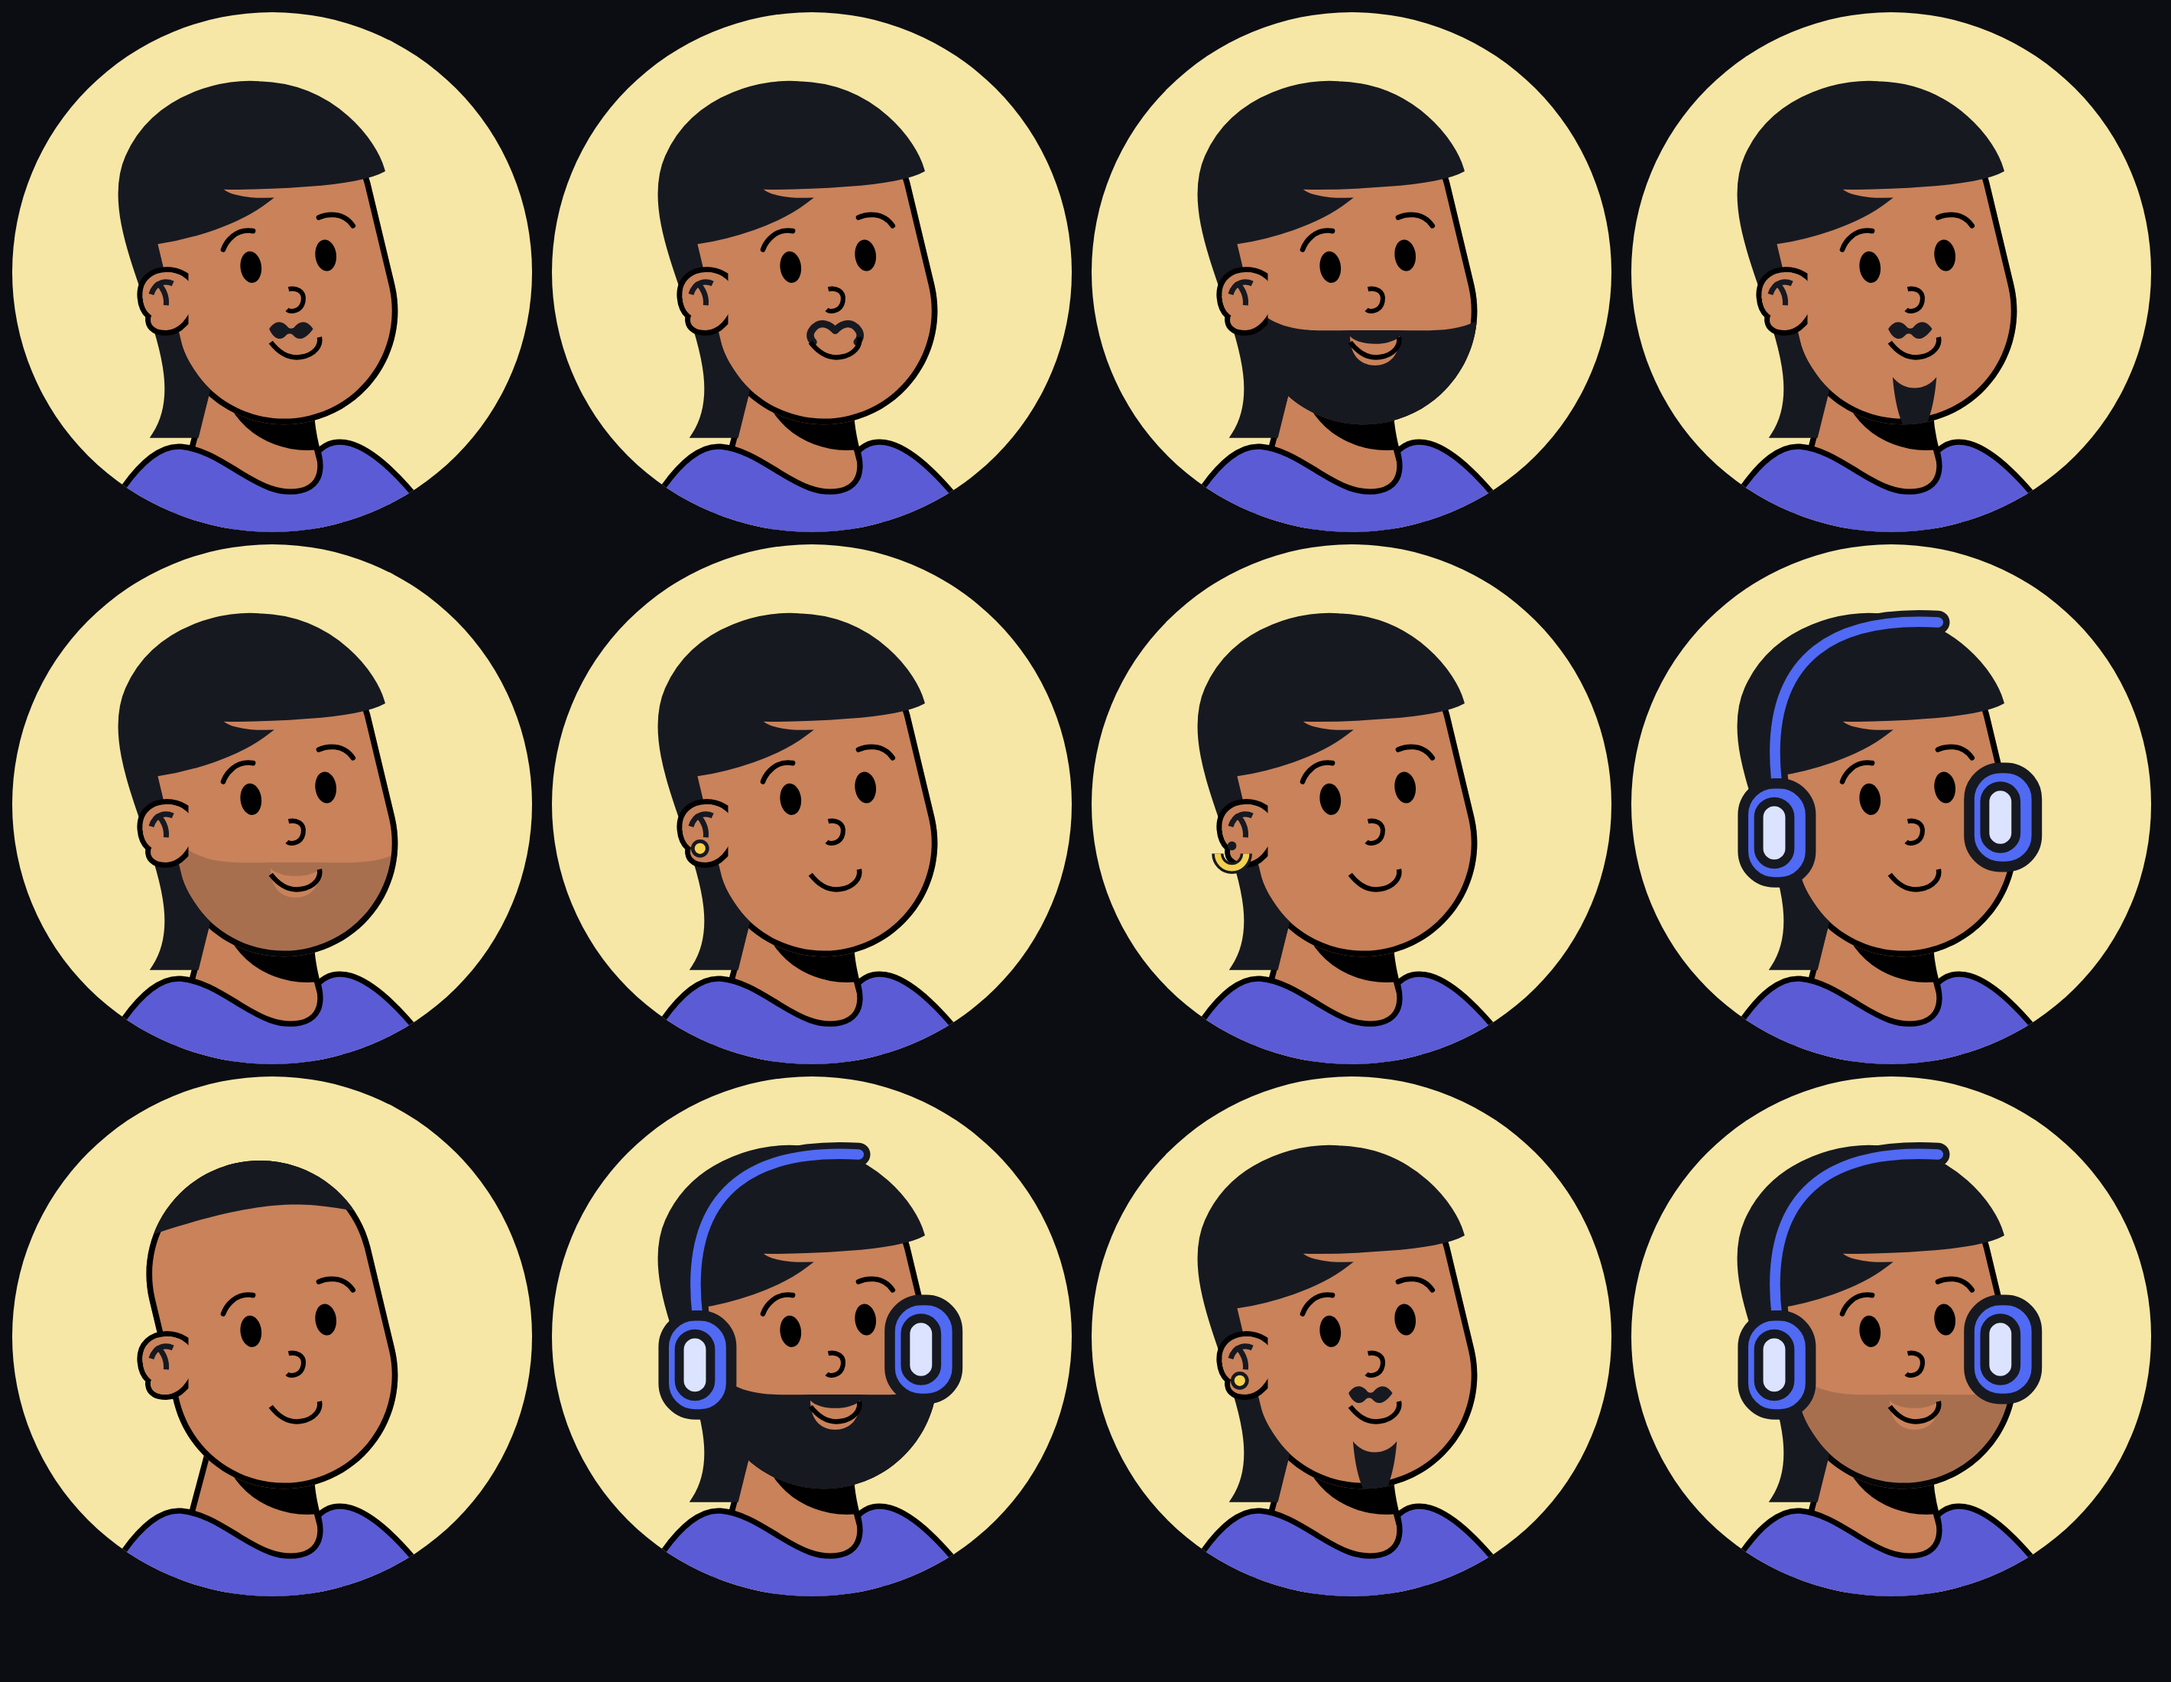
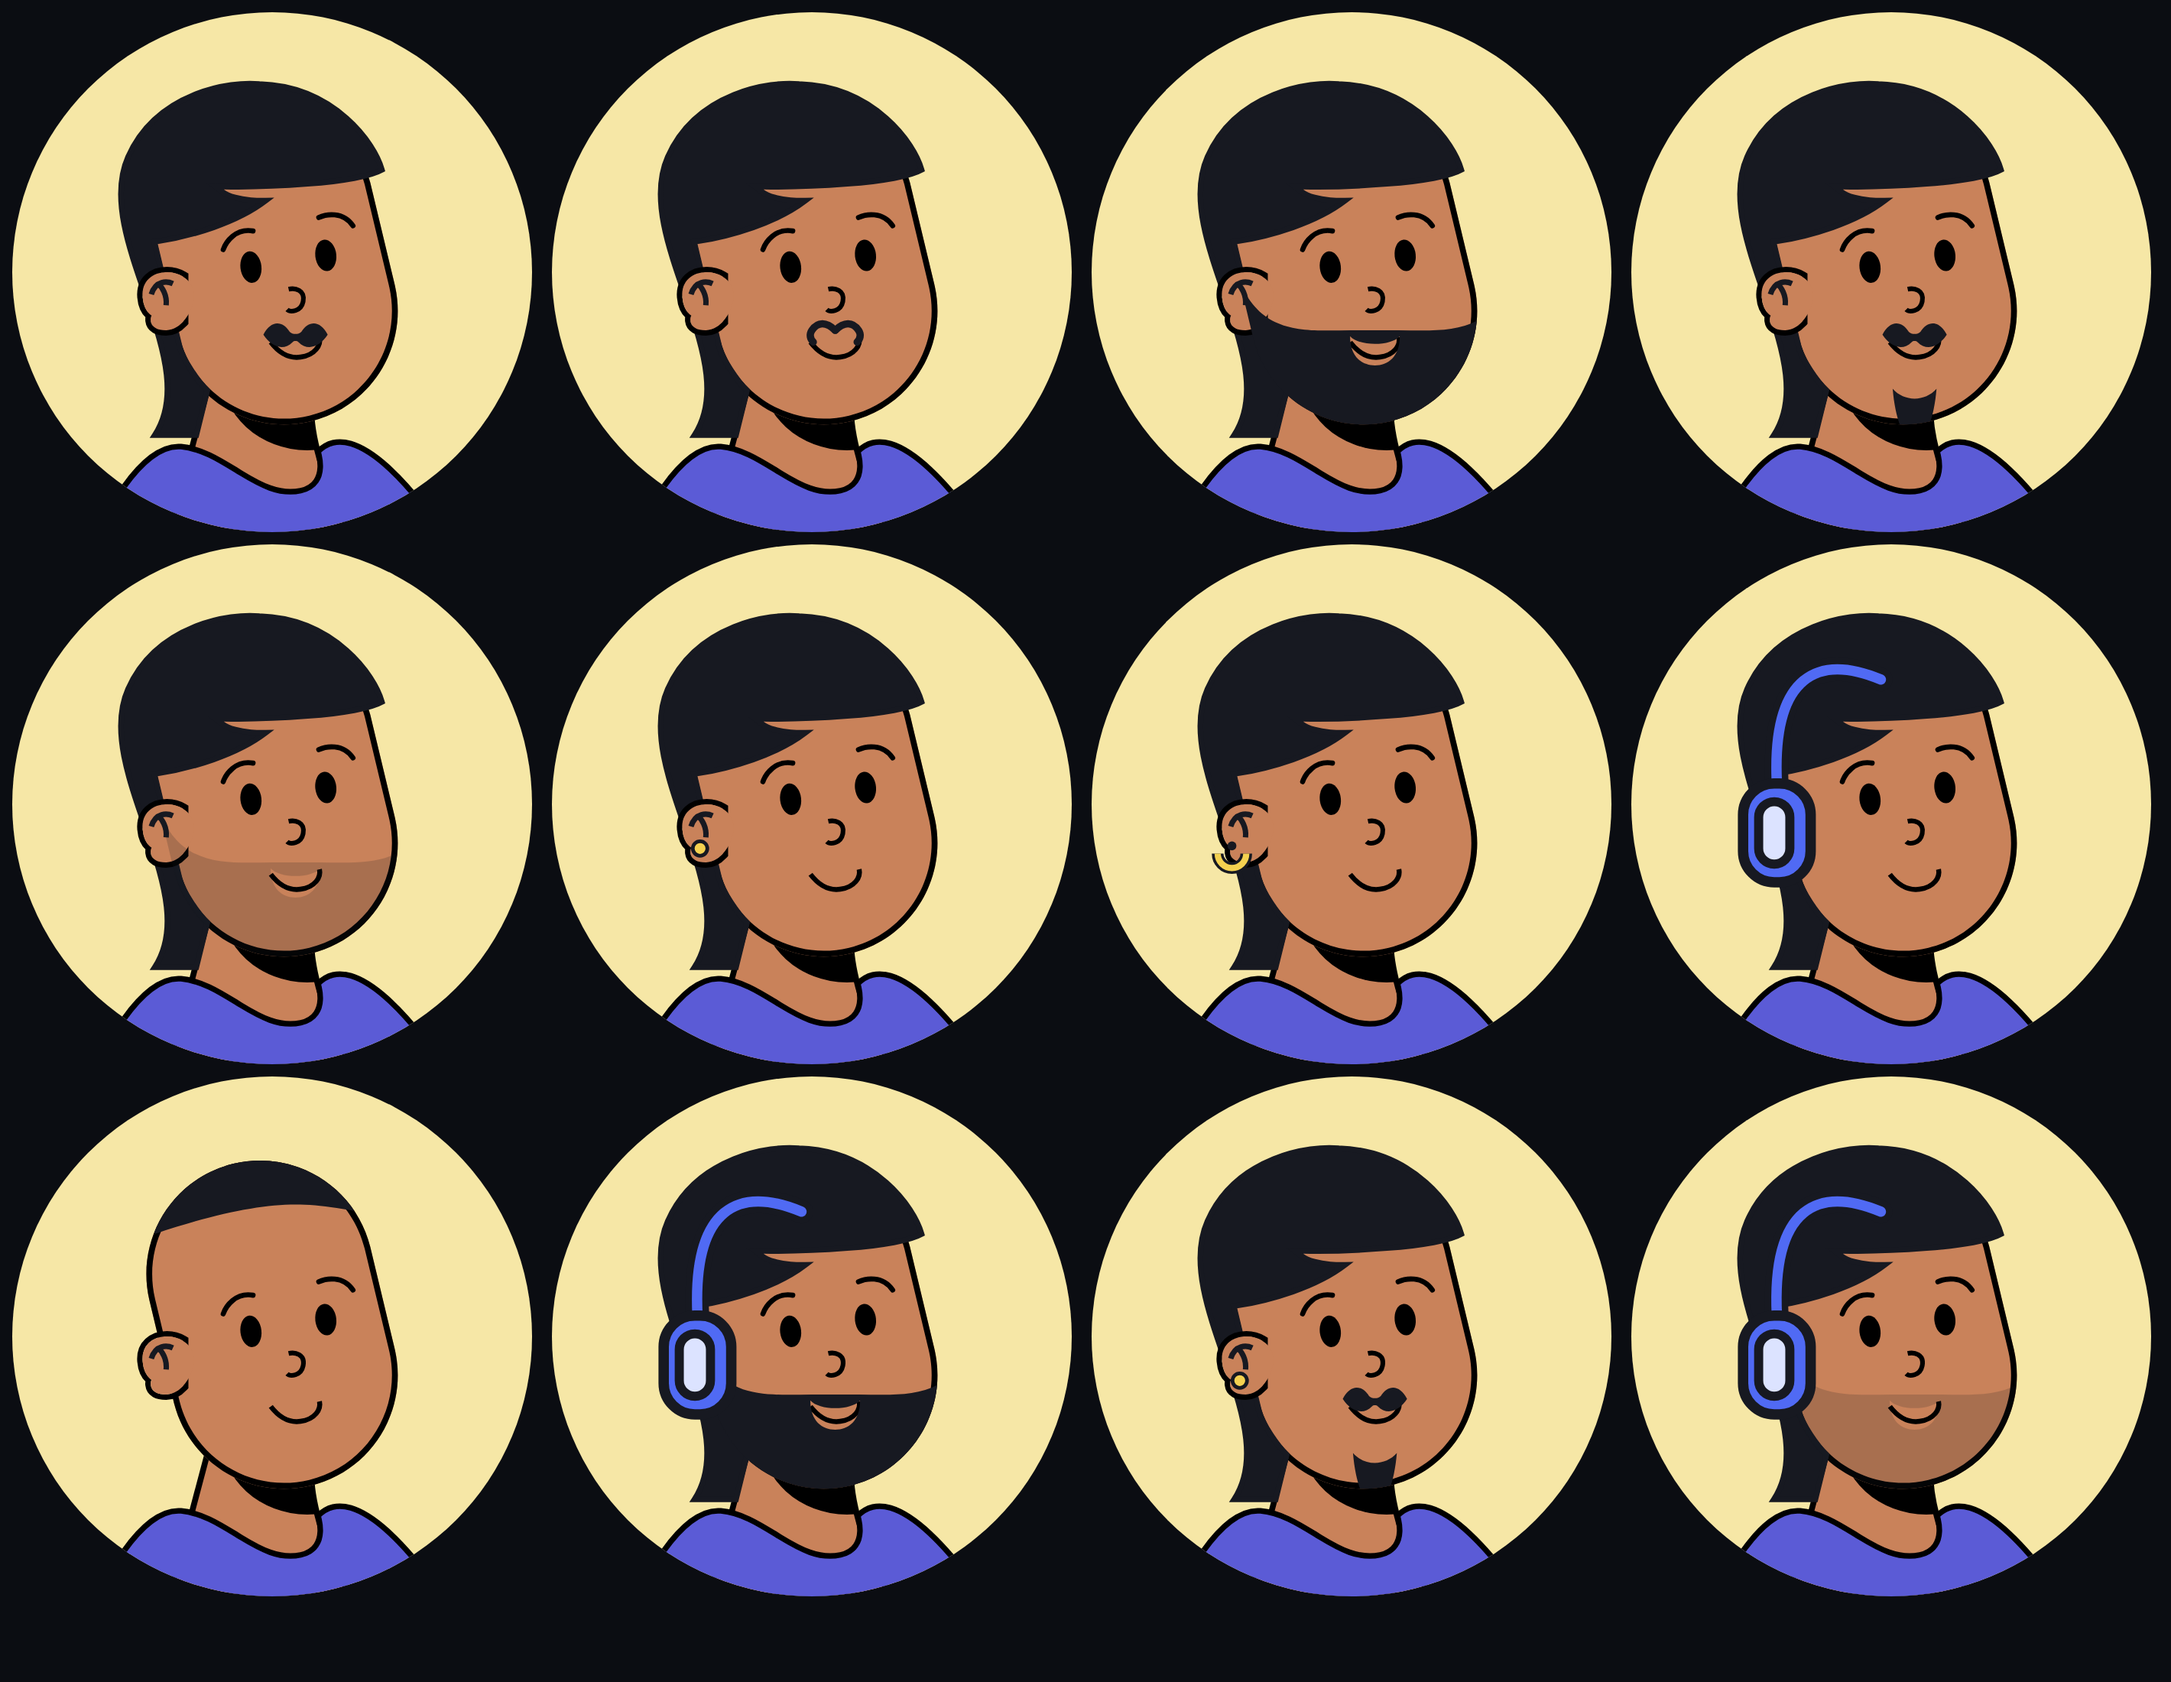
fix: moustache above the mouth, single-cup headphones and mohawk layering

diff --git a/src/react/parts.tsx b/src/react/parts.tsx
@@ -1,7 +1,8 @@
 import type { ReactElement, ReactNode } from 'react'
 import { brighten } from '../core/color'
 import type { AvatarConfig } from '../core/types'
-import { Headphones } from './art/accessories/headphones'
+import { HeadphonesBand } from './art/accessories/headphones-band'
+import { HeadphonesCup } from './art/accessories/headphones-cup'
 import { HoopEarring } from './art/accessories/hoop'
 import { StudEarring } from './art/accessories/stud'
 import { BrowsArched, viewBox as browsArchedViewBox } from './art/brows/arched'
@@ -300,7 +301,7 @@ function AccessoriesArt({
       {config.earring === 'stud' ? <StudEarring uid={uid} /> : null}
       {config.earring === 'hoop' ? <HoopEarring uid={uid} /> : null}
       {config.headphones === 'over-ear' ? (
-        <Headphones color={config.headphoneColor ?? '#506AF4'} uid={uid} />
+        <HeadphonesCup color={config.headphoneColor ?? '#506AF4'} uid={uid} />
       ) : null}
     </>
   )
@@ -308,20 +309,27 @@ function AccessoriesArt({
 
 /** Draws the layered avatar inside the root canvas. */
 export function AvatarArt({ config, uid }: { config: AvatarConfig; uid: string }): ReactElement {
+  const bandColor = config.headphoneColor ?? '#506AF4'
+  const hasHeadphones = config.headphones === 'over-ear'
+  // A mohawk crest should sit over the band, so the band is painted first for that hair.
+  const bandUnderHair = hasHeadphones && config.hat === 'none' && config.hair === 'mohawk'
+
   return (
     <>
       <Part box={layout.face} viewBox={faceViewBox}>
         <Face color={config.skin} uid={uid} />
       </Part>
+      {bandUnderHair ? <HeadphonesBand color={bandColor} uid={uid} /> : null}
       {config.hat === 'none' ? <HairArt config={config} uid={uid} /> : null}
       <HatArt config={config} uid={uid} />
-      <FacialHairArt config={config} uid={uid} />
       <BrowsArt config={config} uid={uid} />
       <EyesArt config={config} uid={uid} />
       <GlassesArt config={config} uid={uid} />
       <EarArt config={config} uid={uid} />
       <NoseArt config={config} uid={uid} />
       <MouthArt config={config} uid={uid} />
+      <FacialHairArt config={config} uid={uid} />
+      {hasHeadphones && !bandUnderHair ? <HeadphonesBand color={bandColor} uid={uid} /> : null}
       <AccessoriesArt config={config} uid={uid} />
       <ShirtArt config={config} uid={uid} />
     </>

diff --git a/src/react/art/accessories/headphones-cup.tsx b/src/react/art/accessories/headphones-cup.tsx
@@ -1,0 +1,32 @@
+import type { ReactElement } from 'react'
+import type { ArtProps } from '../types'
+
+export const viewBox = '0 0 200 200'
+
+/** A single left ear cup; the band suggests the other side runs behind the head. */
+export function HeadphonesCup({ color = '#506AF4' }: ArtProps): ReactElement {
+  return (
+    <g>
+      <rect
+        x="43"
+        y="92"
+        width="26"
+        height="38"
+        rx="12"
+        fill={color}
+        stroke="#171921"
+        strokeWidth="4"
+      />
+      <rect
+        x="49"
+        y="99"
+        width="12"
+        height="24"
+        rx="6"
+        fill="#DCE3FF"
+        stroke="#171921"
+        strokeWidth="3.5"
+      />
+    </g>
+  )
+}

diff --git a/src/react/art/accessories/headphones-band.tsx b/src/react/art/accessories/headphones-band.tsx
@@ -1,0 +1,18 @@
+import type { ReactElement } from 'react'
+import type { ArtProps } from '../types'
+
+export const viewBox = '0 0 200 200'
+
+/**
+ * The visible band rises from the left cup and ends early, curving down into the hair
+ * at the crown instead of looping over it.
+ */
+export function HeadphonesBand({ color = '#506AF4' }: ArtProps): ReactElement {
+  const d = 'M56 92C54 50 72 42 96 52'
+  return (
+    <g>
+      <path d={d} fill="none" stroke="#171921" strokeWidth="9" strokeLinecap="round" />
+      <path d={d} fill="none" stroke={color} strokeWidth="4" strokeLinecap="round" />
+    </g>
+  )
+}

diff --git a/src/react/art/facial-hair/goatee.tsx b/src/react/art/facial-hair/goatee.tsx
@@ -13,8 +13,8 @@ export function Goatee({ color = '#171921', uid }: ArtProps): ReactElement {
         </clipPath>
       </defs>
       <g clipPath={`url(#${clipId})`} fill={color}>
-        <path d="M98 181c4-6 9-6 13-1 1 1 3 1 4 0 4-5 9-5 13 1-5 7-10 9-14 4-1-1-3-1-4 0-4 5-9 3-12-4Z" />
-        <path d="M101 214c2 26 9 40 15 44 6-4 13-18 15-44-8 10-22 10-30 0Z" />
+        <path d="M94 185c5-10 13-10 18-2 2 2 6 2 8 0 5-8 13-8 18 2-6 9-14 11-20 5-1-1-3-1-4 0-6 6-14 4-20-5Z" />
+        <path d="M101 222c2 24 9 36 15 40 6-4 13-16 15-40-8 9-22 9-30 0Z" />
       </g>
     </FaceLayer>
   )

diff --git a/src/react/art/facial-hair/moustache.tsx b/src/react/art/facial-hair/moustache.tsx
@@ -7,7 +7,7 @@ export function Moustache({ color = '#171921' }: ArtProps): ReactElement {
     <FaceLayer>
       <path
         fill={color}
-        d="M98 181c4-6 9-6 13-1 1 1 3 1 4 0 4-5 9-5 13 1-5 7-10 9-14 4-1-1-3-1-4 0-4 5-9 3-12-4Z"
+        d="M94 185c5-10 13-10 18-2 2 2 6 2 8 0 5-8 13-8 18 2-6 9-14 11-20 5-1-1-3-1-4 0-6 6-14 4-20-5Z"
       />
     </FaceLayer>
   )

diff --git a/CHANGELOG.md b/CHANGELOG.md
@@ -4,6 +4,16 @@ All notable changes to this project are documented here. The format follows
 [Keep a Changelog](https://keepachangelog.com/en/1.1.0/) and the project adheres to
 [Semantic Versioning](https://semver.org/spec/v2.0.0.html).
 
+## 1.1.2 — 2026-10-17
+
+### Fixed
+
+- Moustache and goatee now draw above the mouth layer with a solid lip-covering shape,
+  instead of being clipped into a squiggle by the mouth artwork.
+- Headphones show a single left ear cup; the band ends shorter with a downward curve into
+  the hair instead of looping over the crest.
+- A mohawk crest now layers over the band, so the band reads as passing underneath it.
+
 ## 1.1.1 — 2026-10-17
 
 ### Fixed
